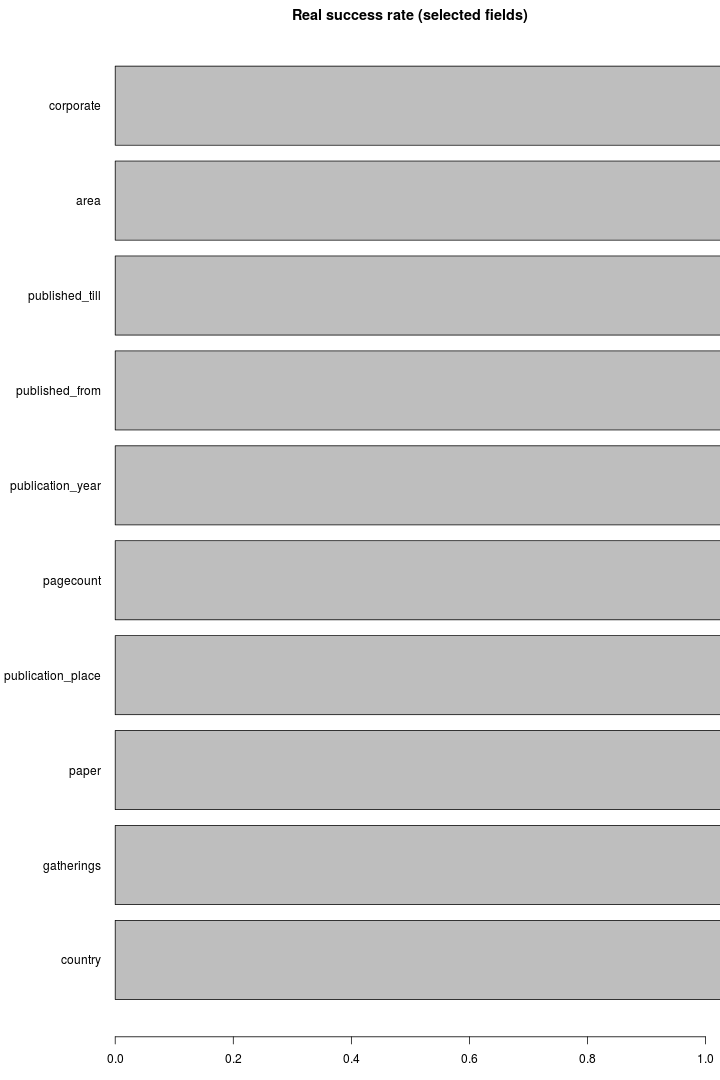
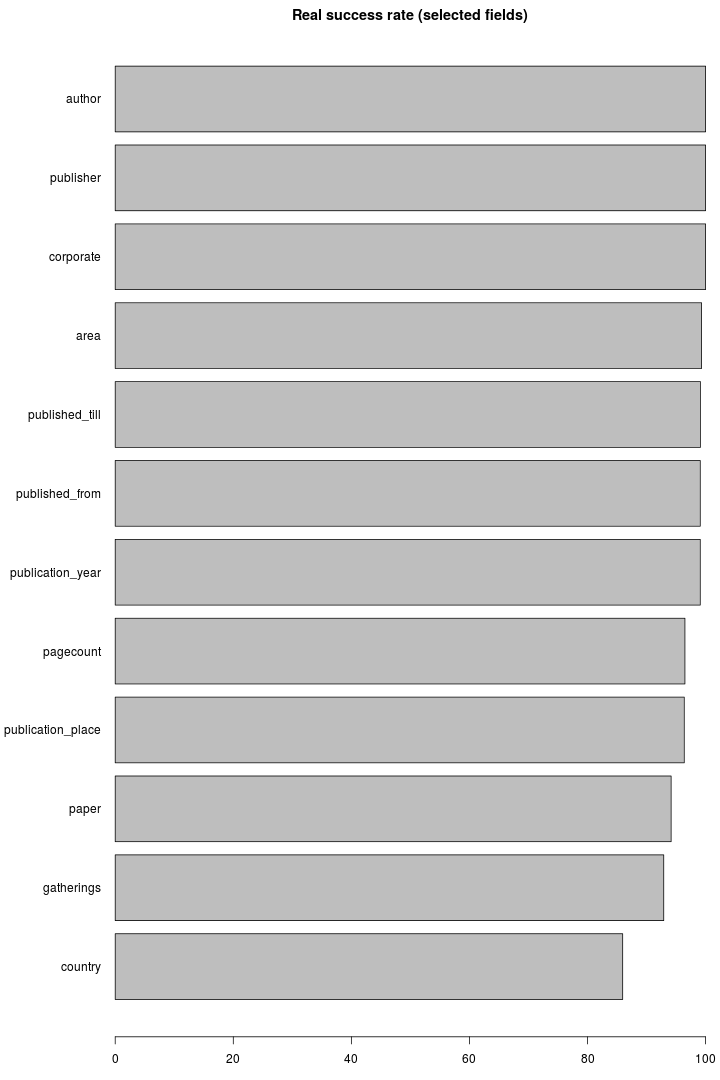
ok

diff --git a/inst/examples/summary.md b/inst/examples/summary.md
@@ -20,15 +20,6 @@ Percentage of non-NA entries among all documents in the preprocessed data (note 
 
 Fields of special interest: real success percentage (proportion of successful conversions compared to non-NA entries in the original data):
 
-
-```
-## Error in real.success[["publisher"]] <- success$publisher/original.nonNA$publisher: replacement has length zero
-```
-
-```
-## Error in real.success[["author"]] <- success$author/original.nonNA$author: replacement has length zero
-```
-
 ![plot of chunk missing2](figure/missing2-1.png) 
 
 ## Pagecounts
